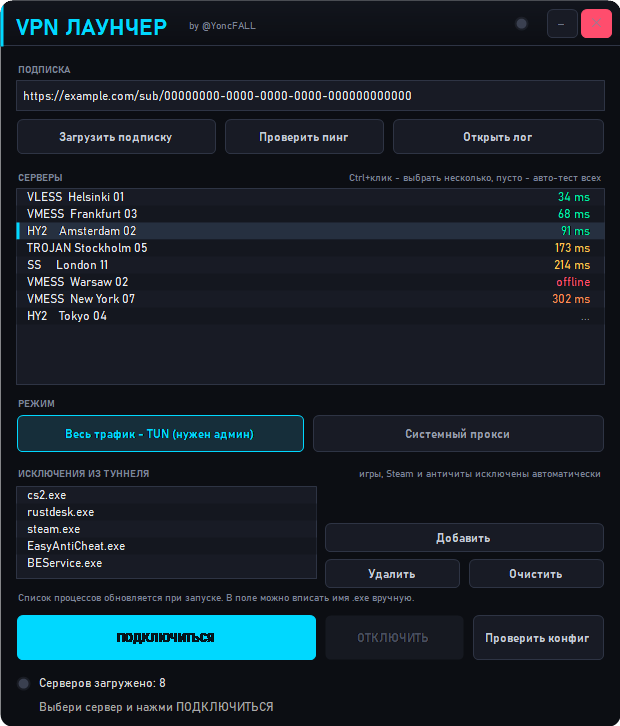
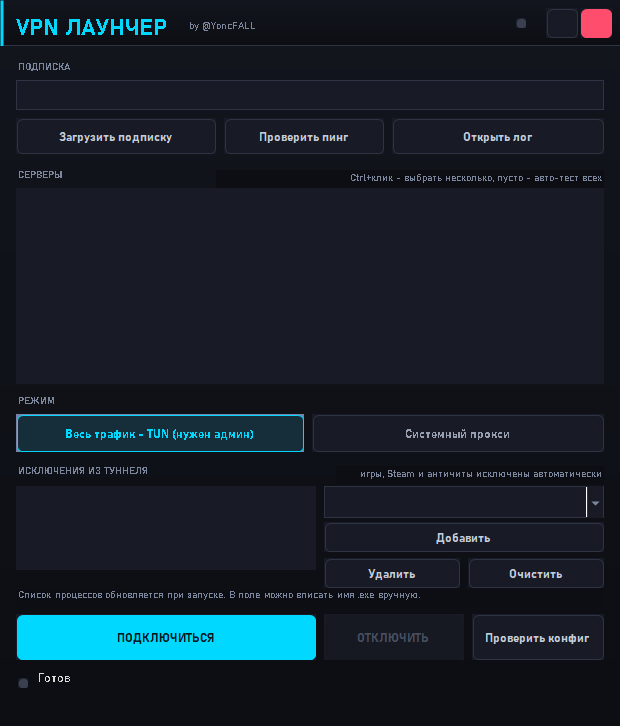
UI: тёмные рамки полей ввода и ровные колонки списка серверов - поля ввода: тонкие рамки цвета темы вместо серых системных, тёмная кнопка-стрелка комбобокса, одинаковая высота 30px - список серверов: колонки протокол/имя/пинг по фиксированной ширине - список исключений: ровная высота без обрезанной 

diff --git a/CHANGELOG.md b/CHANGELOG.md
@@ -20,6 +20,13 @@
   сборке.
 - В сгенерированный конфиг добавлено обязательное поле `action: "route"` в
   правила маршрутизации — конфиг соответствует актуальной схеме sing-box.
+- **Внешний вид полей ввода приведён в порядок.** Раньше текстовое поле и
+  выпадающий список рисовались системными рамками (на светлой теме Windows —
+  серые рамки и белая кнопка-стрелка). Теперь оба поля получают тонкие рамки
+  цвета темы, тёмную кнопку со стрелкой и одинаковую высоту 30px.
+- Колонки списка серверов (протокол / имя / пинг) выровнены по фиксированной
+  ширине — раньше при пропорциональном шрифте строки «гуляли».
+- Список исключений больше не обрезает последнюю строку пополам.
 
 ### Что нового
 - sing-box **1.14.2** в комплекте (sha256 `7bbef1dea9189ee12799ae834ea4b465`).
